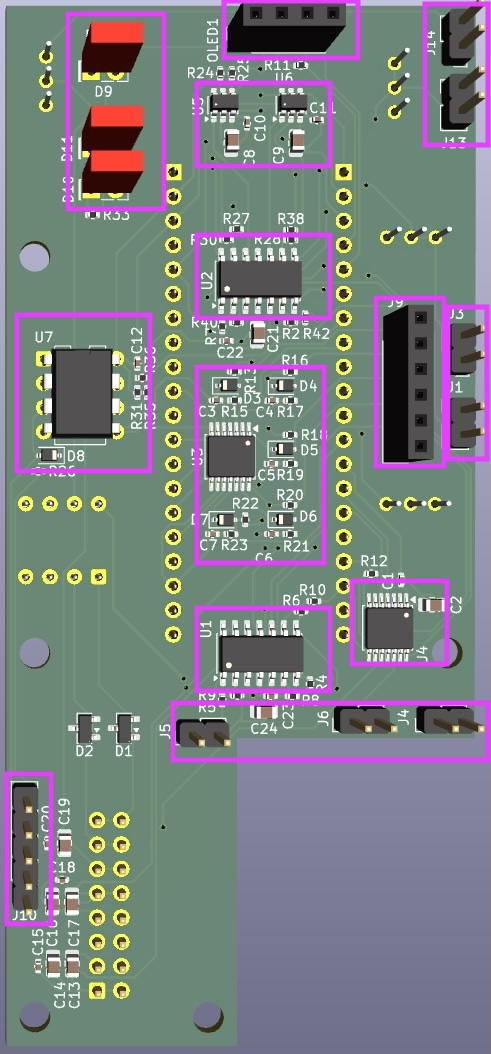
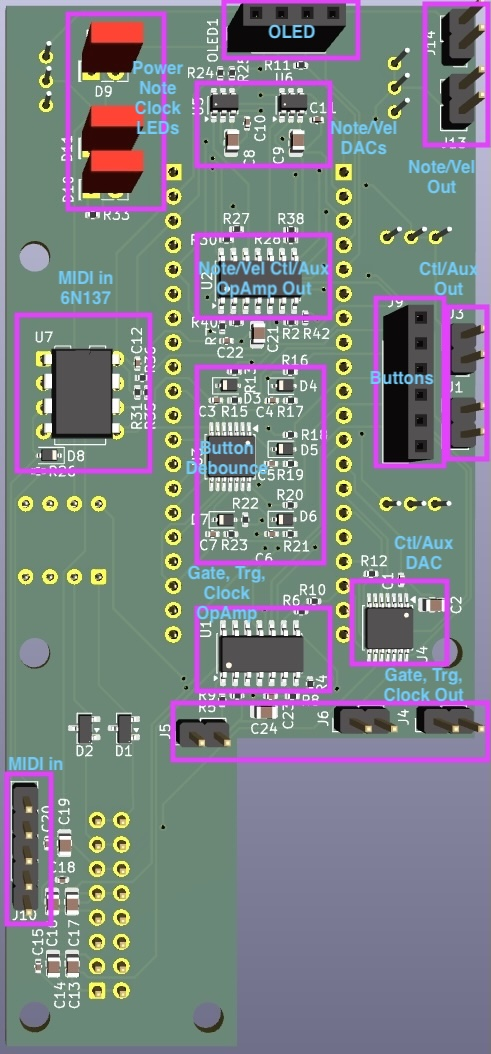
complete HW docs

diff --git a/docs/HARDWARE_DESIGN.md b/docs/HARDWARE_DESIGN.md
@@ -1,5 +1,8 @@
 # TechWave Audio Midi Controller Module Hardware Design
 
+Simply put, the module reads MIDI messages in, and outputs signals to digital analog controllers to provide the voltage outputs.
+This is all based around a RP2040 microcontroller as the brains for handling inputs and outputs.
+
 * [Microcontroller](#microcontroller)
 * [MIDI Input](#midi-input)
 * [Note and Velocity Output](#note-and-velocity-output)
@@ -20,10 +23,12 @@
 <img src="../design/TechWaveAudio_MidiController_Board.jpg" alt="PCB layout" />
 
 ## Microcontroller
-The hardware is based around an RP2040 based Raspberry Pi Pico.
+The microcontroller at the heart of the system is a RP2040 based [Raspberry Pi Pico 1](https://www.raspberrypi.com/documentation/microcontrollers/pico-series.html#pico1).
+The RP2040 is a very capable and low cost with ernough GPIO, I2C, and SPI lines to handle the needs of this system.
 
-To keep the design a bit more accessible, I made the conscience decision to base the hardware around the Raspberry Pi Pico module itself instead of opting for using a discrete RP2040.
+To keep the design a bit more accessible, I made the conscience decision to use the Raspberry Pi Pico module itself instead of opting for using a discrete RP2040 chip only.
 Using a discrete RP2040 itself would have allowed for a much smaller footprint on the PCB, however the using the full module allowed for easier testing overall without having to worry about getting the microcontroller section of the circuitry right (why reinvent the wheel).
+It also makes flashing the firmware much easier (although I could have added a discrete USB port for doing so).
 
 Both cores of the RP2040 are used. Core 0 handles the display, buttons, menus, and state. 
 Core 1 handles the MIDI input and hardware outputs.

diff --git a/README.md b/README.md
@@ -101,7 +101,7 @@ See the [Menu System](./docs/MENU_SYSTEM.md) documentation for the menu system d
 
 **Note**: any settings are not persisted until you exit the menu back to the dashboard (with the exception of when resetting the settings to default).
 
-## Building From Source
+## Building the Firmware From Source
 
 ### Prerequisites
 
